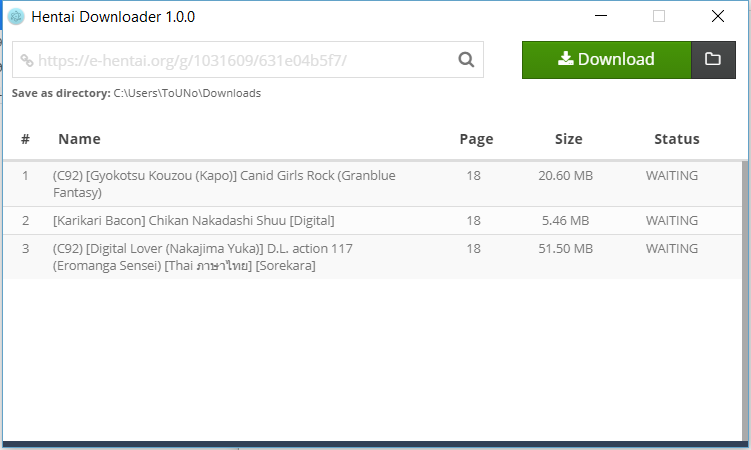
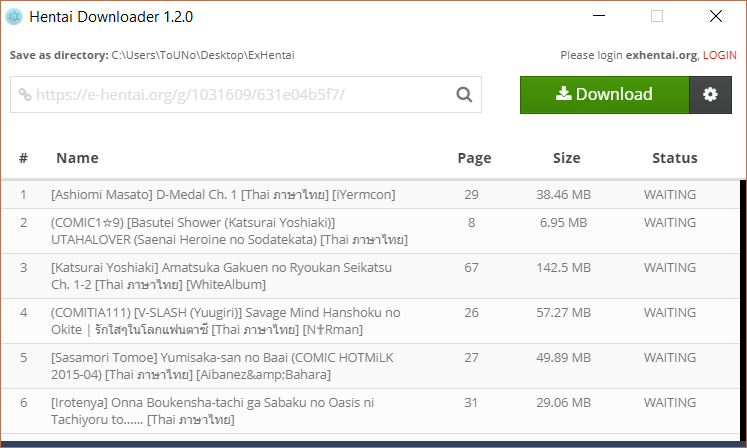
update page and event wait

diff --git a/src/renderer/App.vue b/src/renderer/App.vue
@@ -1,7 +1,7 @@
 <template>
   <div id="app"> 
     <div class="header">
-      <div  v-if="!page.option" class="row">
+      <div class="row">
         <div class="col-xs-8">
           <span class="help-block" style="color: #616161;"><b>Save as directory:</b> {{directory_name}}</span>
         </div>
@@ -9,10 +9,10 @@
           <span class="help-block" style="color: #616161;">Please login <b>exhentai.org</b>, <a href="#" @click.prevent="page.option = true">LOGIN</a></span>
         </div>
       </div>
-      <div v-if="!page.option" class="row">
-        <div class="col-xs-8">
-          <div v-if="!wait" class="form-group" :class="{ 'has-error' : error_message }" style="margin-bottom:2px">
-            <input ref="url" :readonly="state_verify" type="text" class="form-control input-sm" id="txtURL" placeholder="https://e-hentai.org/g/1031609/631e04b5f7/" maxlength="50" @keyup.enter="onQueue" v-model="url">
+      <div class="row">
+        <div v-if="!page.option" class="col-xs-8">
+          <div v-if="!state_verify" class="form-group" :class="{ 'has-error' : error_message }" style="margin-bottom:2px">
+            <input ref="url" type="text" class="form-control input-sm" id="txtURL" placeholder="https://e-hentai.org/g/1031609/631e04b5f7/" maxlength="50" @keyup.enter="onQueue" v-model="url">
             <i class="fa fa-link fa-input-left" aria-hidden="true"></i>
             <i class="fa fa-search fa-input-right" aria-hidden="true"></i>
             <span class="help-block" style="margin-bottom:0px;height:13px;"><b>{{error_message}}</b></span>
@@ -25,7 +25,7 @@
             <span class="help-block">40% Complete (success)</span>
           </div>
         </div>
-        <div class="col-xs-4">
+        <div v-if="!page.option" class="col-xs-4">
           <div class="btn-group" role="group">
             <button :disabled="state_verify || (!directory_name && state_name === 'Download')" type="button" class="btn" 
               :class="!state_verify ? 'btn-success' : 'btn-default'" 
@@ -37,21 +37,26 @@
             </button>
           </div>
         </div>
+        <div v-else class="col-xs-12" style="margin-bottom: 1.2rem;padding-right:19px;">
+          <div class="input-group">
+            <input type="text" readonly class="form-control" placeholder="Directory for..." maxlength="50" v-model="directory_name"
+              style="padding: 7px;font-size: 1rem;height:auto">
+            <span class="input-group-btn">
+              <button class="btn btn-primary" type="button" style="padding: 0.38em 1.5em;" @click="onBrowse">Browse</button>
+              <button class="btn btn-default" type="button" style="padding: 0.38em 0.6em;" @click="page.option = false">
+                <i class="fa fa-arrow-circle-left" aria-hidden="true"></i>
+              </button>
+            </span>
+          </div>
+        </div>
       </div>
-      <div v-else class="row">
+      <div  v-if="false" class="row">
         <div class="col-xs-12">
           <button type="button" class="btn btn-default pull-right" style="padding:6px 13px 7px 10px;font-size: 1.1rem" @click="page.option = false">
             <i class="fa fa-chevron-left" aria-hidden="true"></i> BACK
           </button>
           <div class="page-header" style="margin-top: -10px;">
             <h3>Directory Manga</h3>
-          </div>
-          <div class="input-group">
-            <input type="text" readonly class="form-control" placeholder="Directory for..." maxlength="50" v-model="directory_name"
-              style="padding: 7px;font-size: 1rem;height:auto">
-            <span class="input-group-btn">
-              <button class="btn btn-primary" type="button" style="padding: 6px 10px;font-size: 1.15rem;" @click="onBrowse">Browse</button>
-            </span>
           </div>
           <div class="page-header">
             <h3>Sign-In exhentai.org</h3>
@@ -74,7 +79,7 @@
         </div>
       </div>
     </div>
-    <div v-if="!page.option">
+    <div>
       <table class="table">
         <colgroup>
           <col style="width:6%;">
@@ -131,11 +136,10 @@
     data: () => {
       return {
         page: {
-          option: true
+          signin: false,
+          option: false
         },
         miner: null,
-        signin: true,
-        wait: false,
         STATE: {
           FAIL: 0,
           PREAPRE: 1,
@@ -186,11 +190,14 @@
         }
       },
       urlDone () {
-        this.$refs.url.focus()
-        this.state_icon = 'fa-download'
-        this.state_name = 'Redownload'
-        this.state_verify = false
-        this.url = ''
+        let vm = this
+        vm.state_icon = 'fa-download'
+        vm.state_name = 'Redownload'
+        vm.state_verify = false
+        vm.url = ''
+        vm.$nextTick(() => {
+          vm.$refs.url.focus()
+        })
       },
       beginDownload () {
         let vm = this
@@ -208,7 +215,6 @@
         }
       },
       onQueue (item) {
-        this.wait = !this.wait
         if (this.url.trim() !== '' && this.onCheckURL(this.url)) {
           this.urlBegin()
         } else if (this.manga.length > 0) {
@@ -221,7 +227,10 @@
       onBrowse (item) {
         let vm = this
         vm.CHANGE_DIRECTORY().then(folder => {
-          if (folder) vm.directory_name = folder
+          if (folder) {
+            vm.directory_name = folder
+            vm.page.option = false
+          }
         })
       },
       onCheckURL: (url) => {
